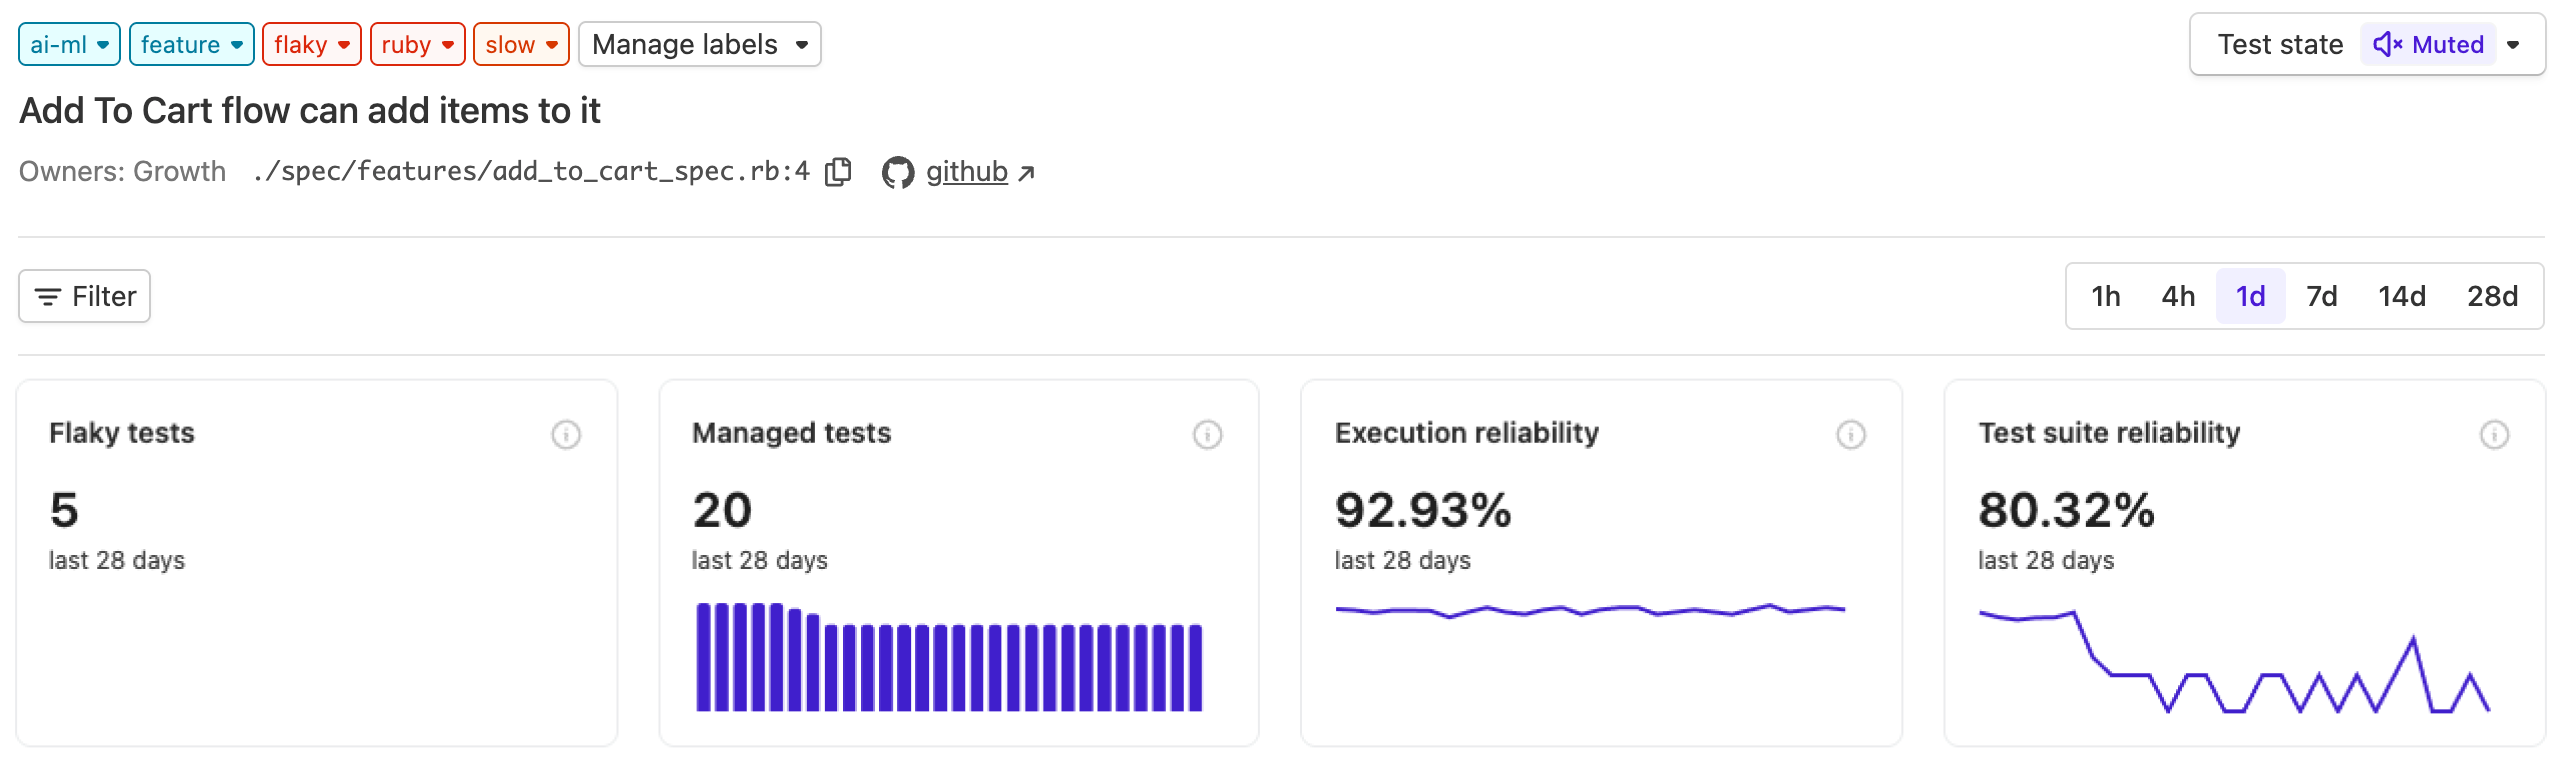
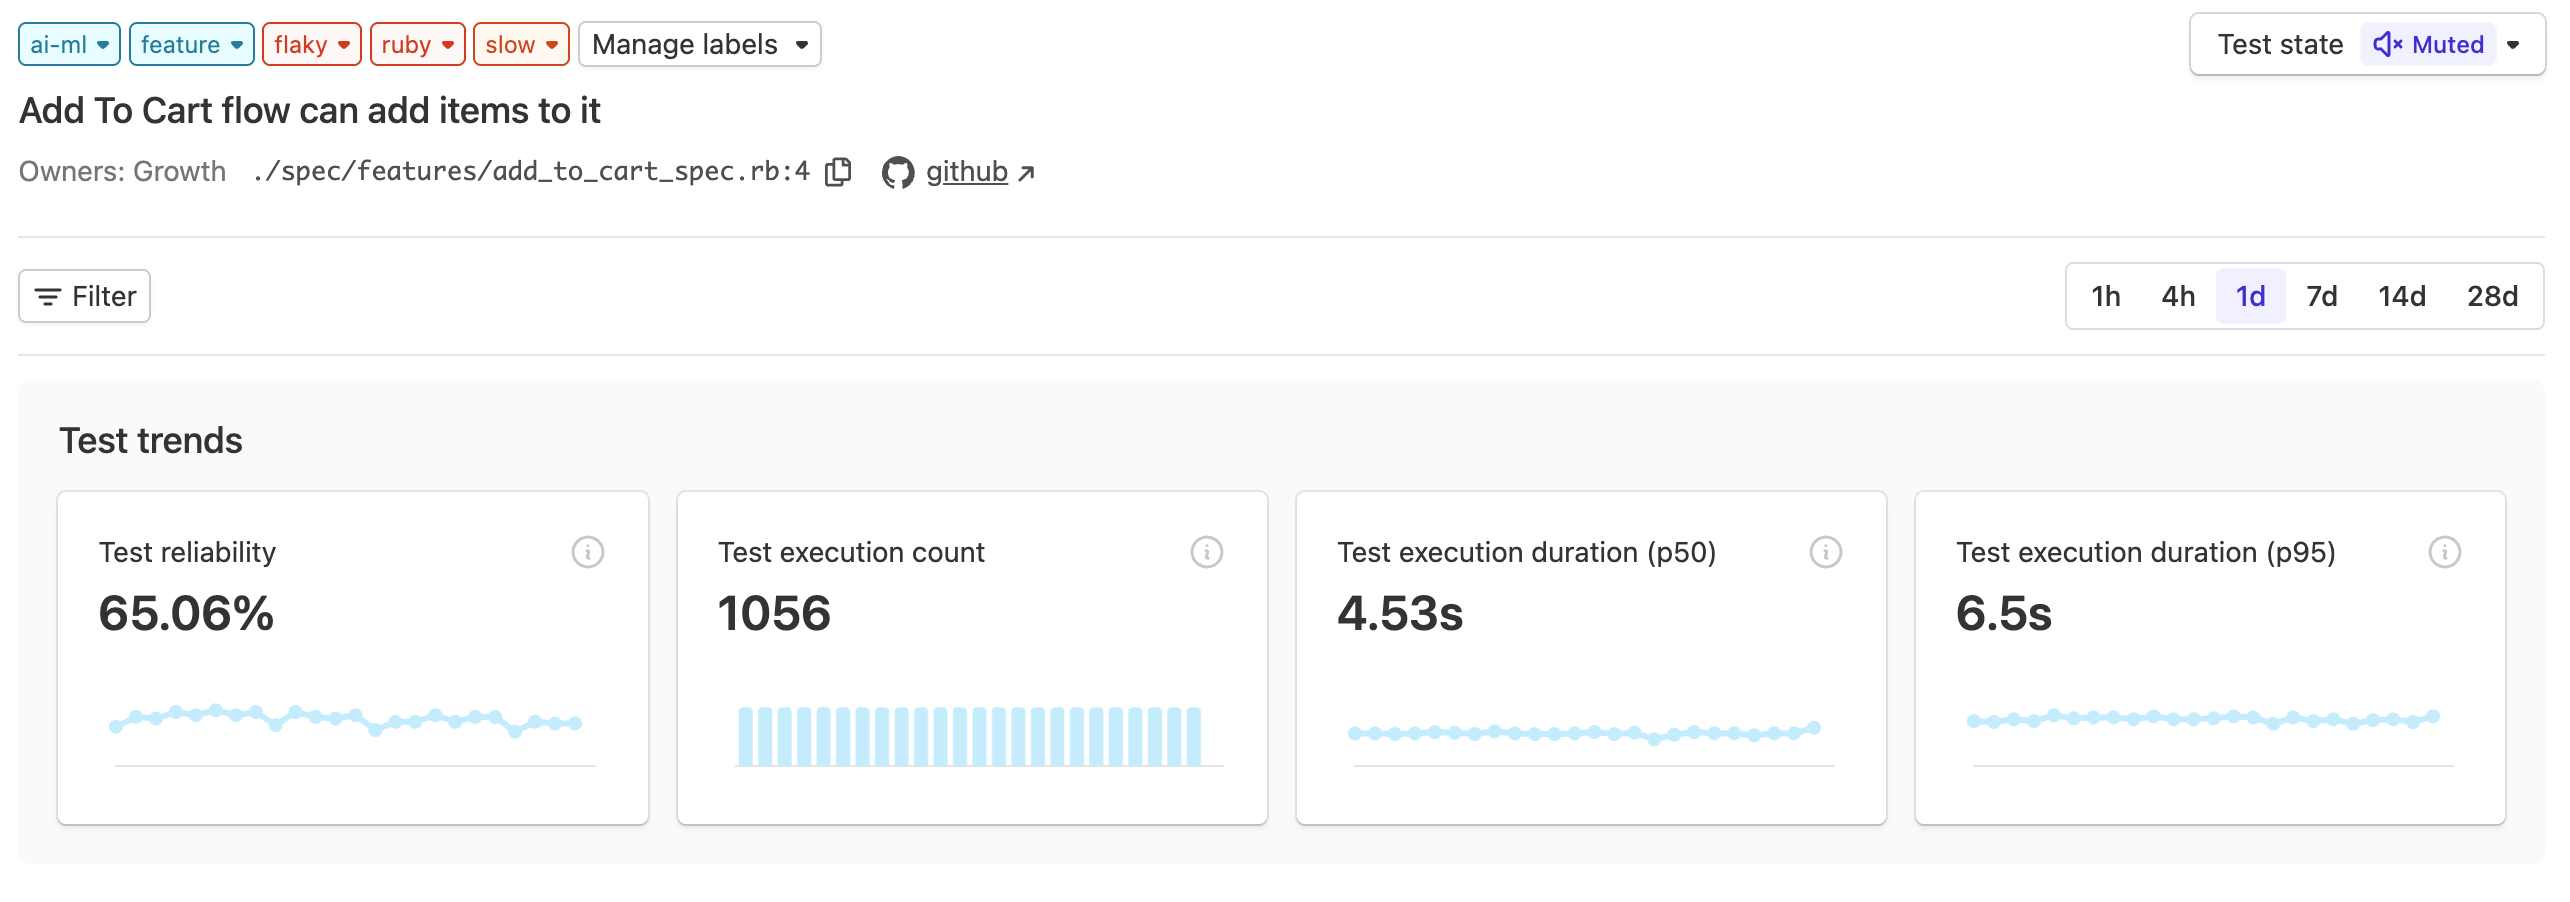
Correct Summary layout docs and fold in layout editing changes
Add a preview callout for Summary widgets, and state that editing needs
Full Access and that the last save wins. Move the Save view rename and
the permissions entry from the separate layout editing draft. Revert the
unused test_engine copy of test-stats.png.

diff --git a/pages/pipelines/configure/tests/test_suites.md b/pages/pipelines/configure/tests/test_suites.md
@@ -77,7 +77,7 @@ A period picker lets you switch between a one-day and a seven-day view. One day 
 
 > 📘 This feature is currently available in preview and must be enabled by Buildkite for your organization. Until it's enabled, the **Summary** page shows test statistics by team only, without the **Group by** dropdown. Contact [Buildkite support](mailto:support@buildkite.com) to request access.
 
-The **Summary** page of a test suite includes a **Test statistics** widget that breaks down test counts and execution duration. Use the **Group by** dropdown in the widget's header to switch between **Team** (the default) and any available [tag](/docs/pipelines/configure/tests/test-suites/tags). The widget is shown by default, and users who can edit the suite can move or hide it. Learn more in [Customize the Summary layout](#trends-and-analysis-customize-the-summary-layout).
+The **Summary** page of a test suite includes a **Test statistics** widget that breaks down test counts and execution duration. Use the **Group by** dropdown at the top of the widget to switch between **Team** (the default) and any available [tag](/docs/pipelines/configure/tests/test-suites/tags). The widget is shown by default, and users with **Full Access** to the suite can move or hide it. Learn more in [Customize the Summary layout](#trends-and-analysis-customize-the-summary-layout).
 
 - Grouping by **Team** shows a row for each team assigned to the suite, based on [test ownership](/docs/pipelines/configure/tests/test-suites/test-ownership). If your organization doesn't have teams or a TESTOWNERS file set up, Buildkite Test Engine shows a prompt to set up test ownership instead of the table.
 - Grouping by tag doesn't require teams or test ownership to be configured. Search for a tag key in the **Group by** menu to group by its values.
@@ -106,17 +106,21 @@ You can also annotate span information to help investigate problems, and see det
 
 ### Summary widgets
 
+> 📘 Summary widgets and layout editing are currently available in preview and must be enabled by Buildkite for your organization. Until they're enabled, the **Summary** page shows its existing charts and tables, without the **Edit layout** button. Contact [Buildkite support](mailto:support@buildkite.com) to request access.
+
 The **Summary** page shows your suite's charts and tables in widgets. Chart widgets show a key metric above the chart, so you can see the headline value at a glance. On wider screens, widgets sit side by side in a grid. On narrower screens, they stack.
 
-Each chart adapts to its widget's width. Wide widgets show the full chart, with axes, a legend, and tooltips. Narrow widgets show a simplified chart with a shorter title. Select a narrow widget to open its detailed chart. On wider chart widgets, select **Maximize** to open the detailed chart in a dialog.
+Each chart adapts to the width of its widget. Wide widgets show the full chart, with axes, a legend, and a tooltip when you hover over the chart. Narrow widgets show a simplified chart with a shorter title. Select a narrow widget to open its detailed chart. On wider chart widgets, select the **Maximise** icon to open the detailed chart in a dialog.
 
 If a widget doesn't apply every filter you've set on the **Summary** page, a warning icon appears next to its title. Select the icon to see which filters it ignores and why.
 
 ### Customize the Summary layout
 
-The **Summary** layout is shared by everyone who views the suite: they all see the same widgets, in the same order and at the same widths. Users who can edit the suite can change the layout. Everyone else sees the saved layout without editing controls. The layout doesn't change when you switch between [saved views](/docs/pipelines/configure/tests/test-suites/saved-views).
+Users with [**Full Access**](/docs/pipelines/security/permissions#manage-teams-and-permissions-test-suite-level-permissions) to a test suite can change the layout of its **Summary** page. Users with **Read Only** access see the saved layout without editing controls.
 
-By default, the **Summary** shows the suite's metric charts, **Test statistics**, and **Recent runs**. These other widgets start hidden:
+Each suite has one saved layout, and everyone who views the suite sees the same widgets, in the same order and at the same widths. If two users edit the layout at the same time, the last one to save replaces the other's changes. The layout doesn't change when you switch between [saved views](/docs/pipelines/configure/tests/test-suites/saved-views).
+
+By default, the **Summary** page shows the suite's metric charts, **Test statistics**, and **Recent runs**. These other widgets start hidden:
 
 - **Suite duration distribution**
 - **Test duration distribution**
@@ -125,18 +129,22 @@ By default, the **Summary** shows the suite's metric charts, **Test statistics**
 - **Workflow activity**
 - **Slowest tests**
 
-The **Widgets** menu only lists widgets that can show data for the suite. For example, **Workflow activity** is listed only when the suite has an active workflow.
+The **Widgets** menu only lists widgets that can show data for the suite:
+
+- **Flaky tests added and resolved** and **Runs with known flaky failures** are listed only when the suite has tests labeled as flaky.
+- **Workflow activity** is listed only when the suite has an active [workflow](/docs/pipelines/configure/tests/workflows).
 
 To change the layout:
 
-1. Select **Edit layout**.
+1. On the test suite's **Summary** page, select **Edit layout**.
 1. Make your changes:
-   - To show or hide a widget, select **Widgets**, then select or clear the widget. A widget you show is added in a new row at the bottom.
-   - To move a widget, drag its handle, or focus the handle and use the arrow keys. To move a whole row, drag the handle at the start of the row.
-   - To resize a widget, drag the divider next to it, or focus its handle and press Shift with the Left or Right arrow key. Each row is four units wide. Some widgets, such as **Recent runs**, always use the full width.
-   - To switch a chart between bar and line styles, use the chart style toggle in the widget's header.
+    * To show or hide a widget, select **Widgets**, then select or clear the widget. A widget you show is added in a new row at the bottom.
+    * To move a widget, drag its handle, or focus the handle and use the arrow keys.
+    * To move a whole row, drag the handle at the start of the row, or focus that handle and use the Up and Down arrow keys.
+    * To resize a widget, drag the divider next to it, or focus the divider and use the Left and Right arrow keys. You can also focus the handle of the widget and press Shift with the Left or Right arrow key. Each row is four units wide. Some widgets, such as **Recent runs**, always use the full width.
+    * To switch a chart between bar and line styles, select the bar chart or line chart icon at the top of the widget.
 1. Select **Save layout** to save your changes for everyone, or select **Cancel** to discard them.
 
 To go back to the default widgets, order, and widths, select **Widgets** > **Reset layout** while editing, then select **Save layout**. Resetting keeps each chart's style.
 
-If you try to leave the page with unsaved changes, you're asked to confirm before they're discarded.
+If you try to leave the page with unsaved changes, including with your browser's back button, a dialog asks you to confirm. Select **Keep editing** to stay, or **Discard changes** to leave without saving. Changing the grouping or page of the **Test statistics** table doesn't discard your changes.

diff --git a/pages/pipelines/configure/tests/test_suites/saved_views.md b/pages/pipelines/configure/tests/test_suites/saved_views.md
@@ -14,7 +14,7 @@ Saved views created from any of these locations are shared across your Buildkite
 
 1. On the test suite's **Summary** or **Tests** page, select **Filter**, then select as many filter values as you would like.
 1. Select **Display**, then select the columns you would like to appear in your view.
-1. Select **Save** in the filter bar.
+1. Select **Save view** in the filter bar.
 1. Select one of the following options:
     * **Save as default view:** Available on the **Summary** page only. Sets the view as the default for the test suite.
     * **Create a new view:** Available on both the **Summary** and **Tests** pages. Give your view a name, then select **Save view**.
@@ -31,7 +31,7 @@ You can also create a default saved view directly from the **Tests** tab on a bu
 1. Navigate to a build page and select the **Tests** tab.
 1. Select **Filter**, then select your desired filter values.
 1. Select **Display**, then select the columns you would like to appear in your view.
-1. Select **Save** in the filter bar.
+1. Select **Save view** in the filter bar.
 1. Select **Save as default view**.
 
 This view will now be the default **Tests** tab view for all builds in your Buildkite organization.

diff --git a/pages/pipelines/security/permissions.md b/pages/pipelines/security/permissions.md
@@ -84,6 +84,7 @@ When you create a new test suite in Buildkite:
 - Provide access to other users, by adding the test suite to other teams that you are a [team maintainer](#manage-teams-and-permissions-team-level-permissions) on.
 - Configure test splitting.
 - Create and edit workflows.
+- Customize the widget layout of the test suite's **Summary** page.
 
 Any user with **Full Access** permission to a test suite can change its permission to **Read Only**, which allows you to view test runs only, but _not_:
 
